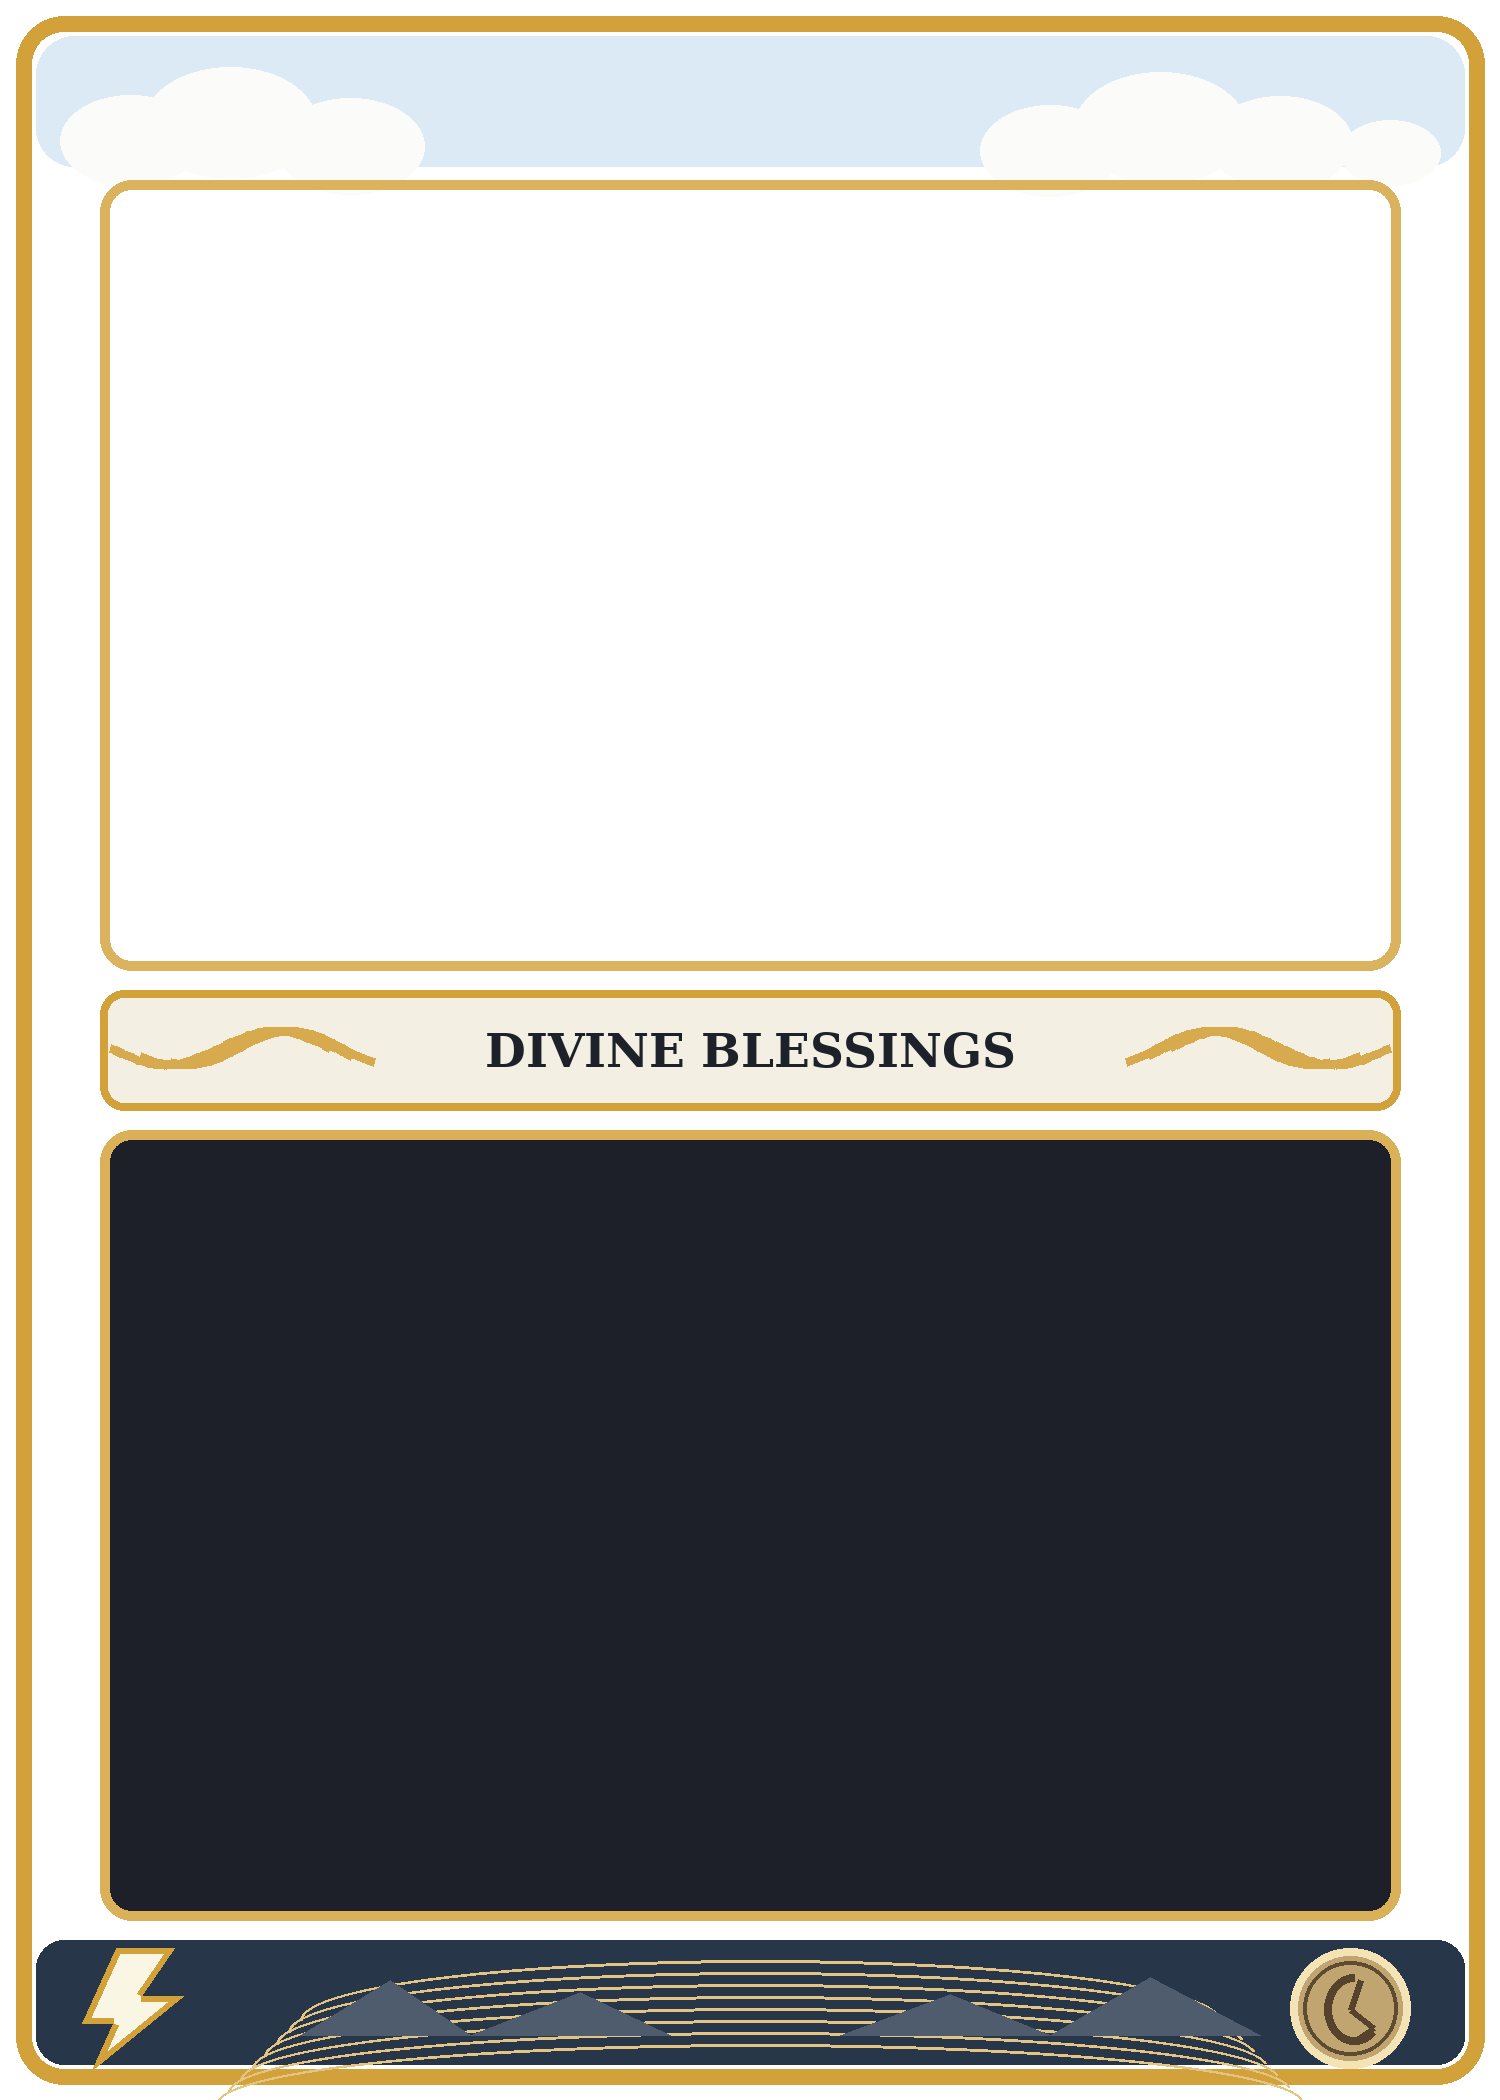
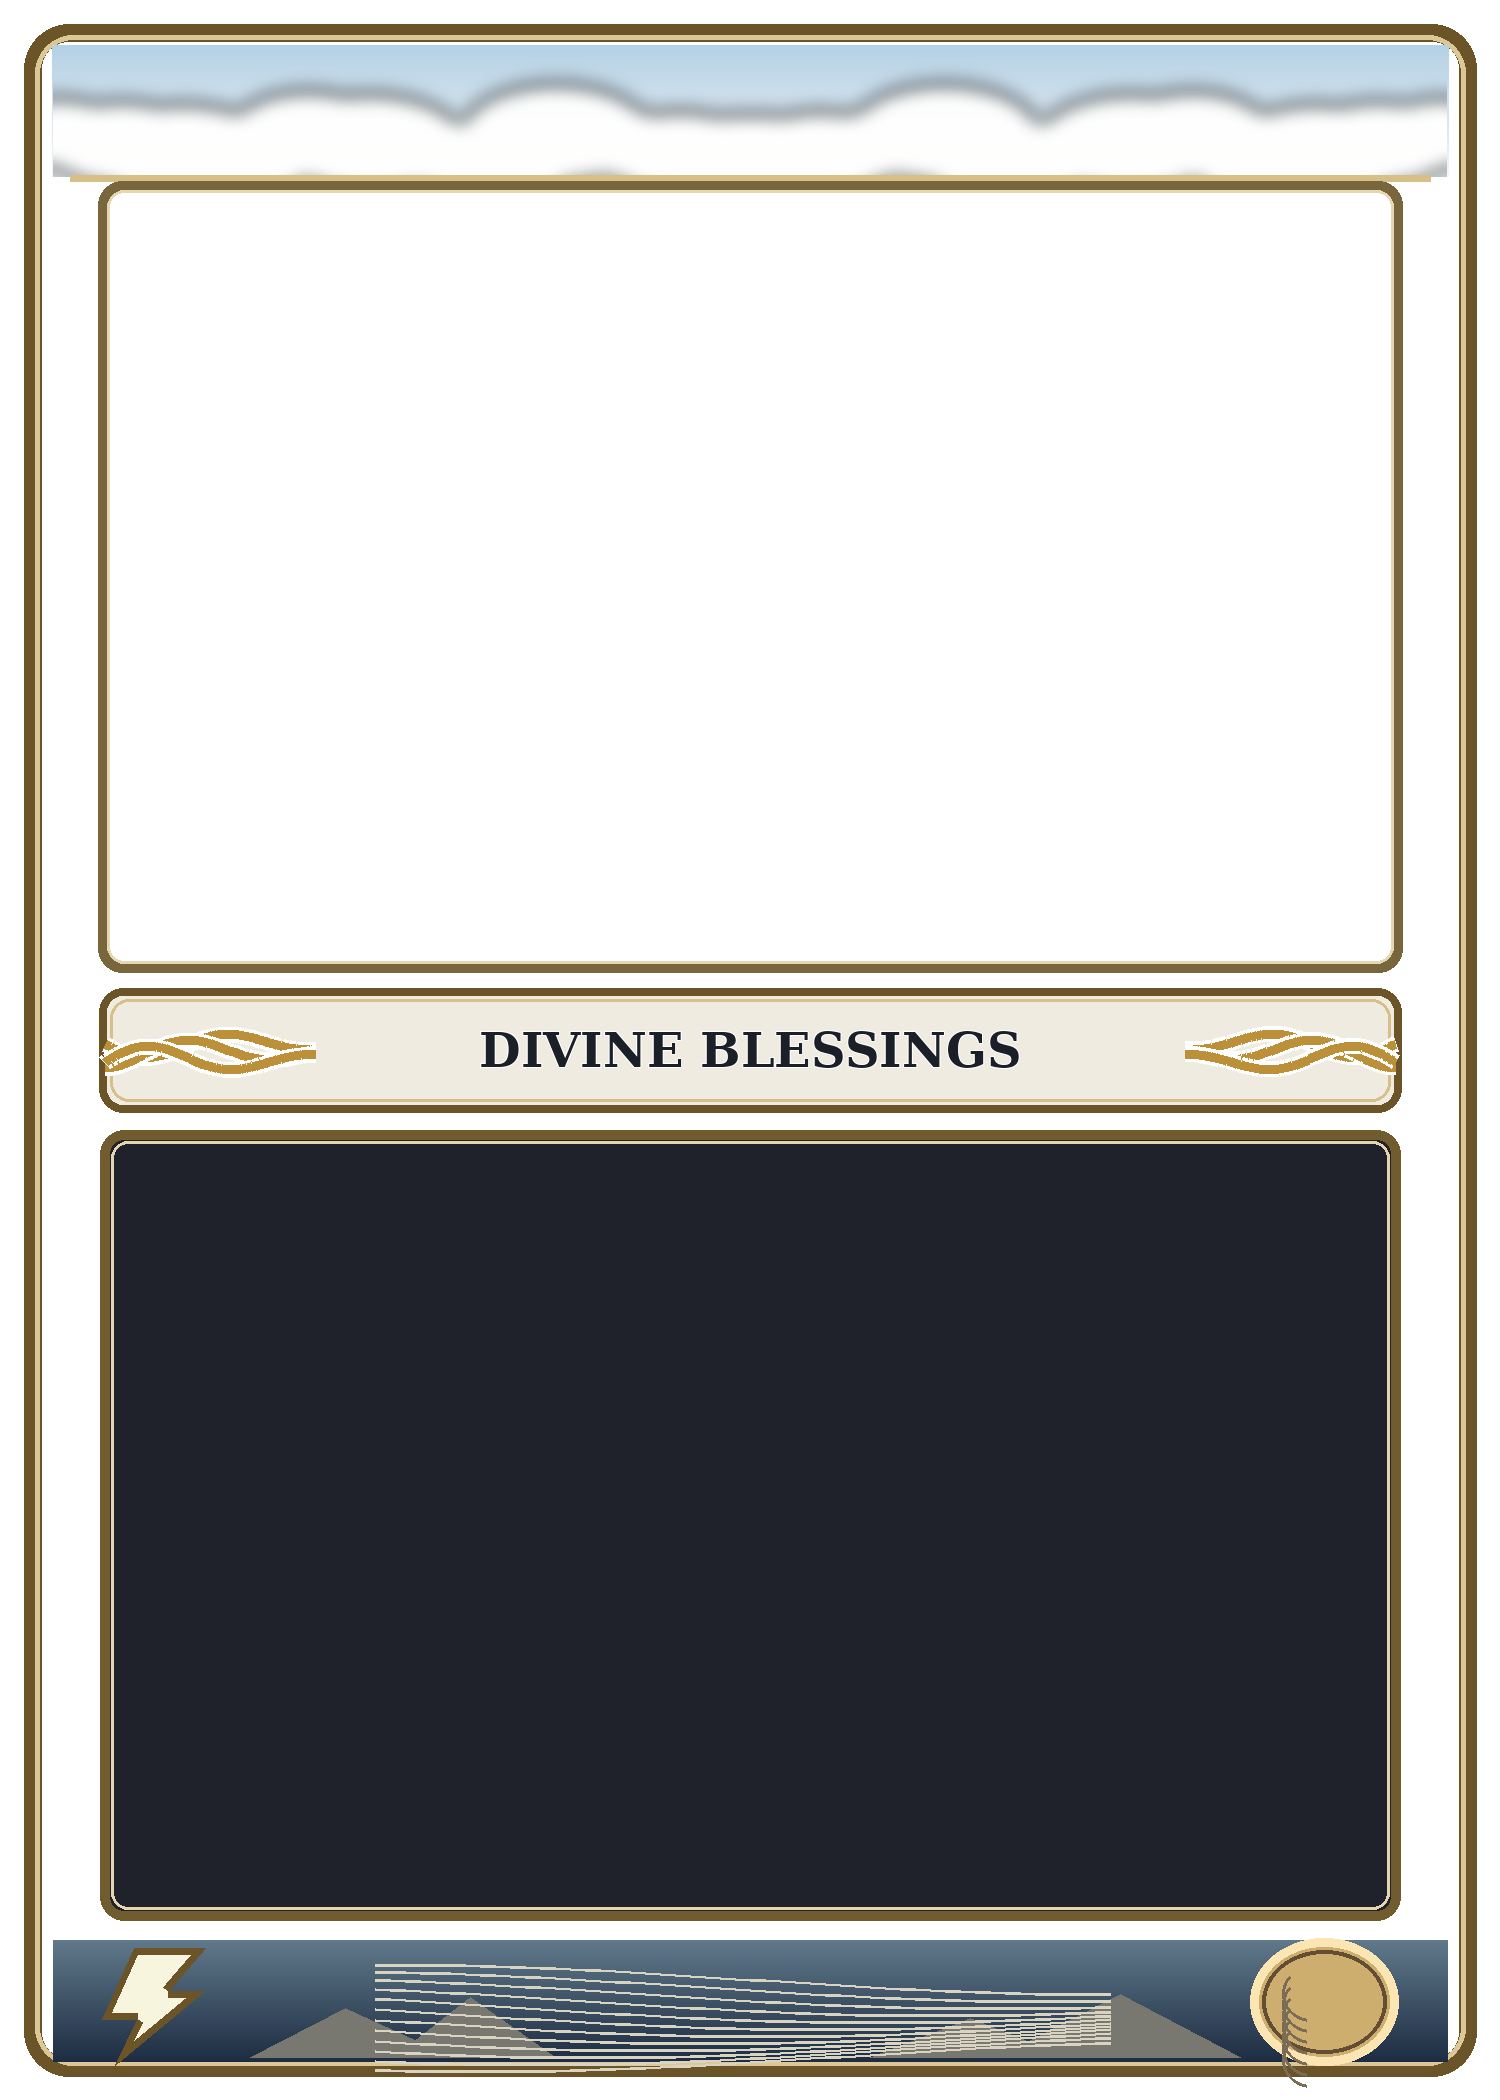
Add files via upload

Changed region(s): [[0.0, 0.0, 1.0, 1.0]]

diff --git a/app.js b/app.js
@@ -36,16 +36,16 @@ function wrapText(value,maxWidth){
 }
 function render(){
   ctx.clearRect(0,0,W,H);
-  ctx.fillStyle='#1d2938';ctx.fillRect(0,0,W,H);
+  ctx.fillStyle='#111827';ctx.fillRect(0,0,W,H);
   // Image is clipped to the exact common art opening, then the transparent frame overlays it.
-  ctx.save();roundedPath(106,186,1288,778,25);ctx.clip();
+  ctx.save();roundedPath(109,192,1282,768,15);ctx.clip();
   if(art){
     const zoom=Number($('zoom').value)||1;
-    const scale=Math.max(1288/art.width,778/art.height)*zoom;
+    const scale=Math.max(1282/art.width,768/art.height)*zoom;
     const w=art.width*scale,h=art.height*scale;
-    ctx.drawImage(art,750-w/2+Number($('x').value),575-h/2+Number($('y').value),w,h);
+    ctx.drawImage(art,750-w/2+Number($('x').value),576-h/2+Number($('y').value),w,h);
   }else{
-    ctx.fillStyle='#b8c5ce';ctx.fillRect(100,180,1300,790);
+    ctx.fillStyle='#b9c6d1';ctx.fillRect(100,180,1300,790);
   }
   ctx.restore();
   if(frame)ctx.drawImage(frame,0,0,W,H);
@@ -53,7 +53,7 @@ function render(){
   ctx.save();ctx.textAlign='left';ctx.textBaseline='middle';
   let name=String($('name').value||'');let size=65;
   while(size>30){ctx.font=`bold ${size}px Georgia,serif`;if(ctx.measureText(name).width<910)break;size-=2;}
-  ctx.fillStyle='#1b2737';ctx.fillText(name,150,103,920);
+  ctx.fillStyle='#1b2737';ctx.fillText(name,155,113,920);
   ctx.restore();
   const dark=$('variant').value==='black';
   const rules=$('rules').value||'';
@@ -64,8 +64,8 @@ function render(){
   let y=1210;
   for(const line of lines){if(y+sz>1850)break;ctx.fillText(line,192,y);y+=sz*1.32;}
   ctx.restore();
-  textFit($('vp').value,125,2012,90,73,36,'#ffffff');
-  textFit($('cost').value,1350,2012,88,69,35,'#28221b');
+  textFit($('vp').value,158,2001,63,54,25,'#172031');
+  textFit($('cost').value,1324,2001,88,60,27,'#28221b');
 }
 function setArtData(data){
   artData=data;

diff --git a/README.md b/README.md
@@ -1,11 +1,9 @@
-# Pantheon Card Studio — unified frame draft
-Upload all contents of this ZIP to the root of your GitHub Pages repository, preserving `frames/`.
+# Pantheon Card Studio — corrected frame and canvas alignment
 
-- `index.html`, `style.css`, `app.js`, `.nojekyll`
-- `frames/`: 16 new 1500 × 2100 PNGs, 8 colors × ivory/black rules panels
-- All frames have identical geometry and a transparent artwork window. Upload artwork in the editor.
-- The title sits on white clouds at the top left; type is printed on the wave banner.
-- Lightning at bottom left is VP, coin at bottom right is cost.
-- Frame artwork is a new programmatic concept draft, **not** the original detailed illustration or print-ready art.
-- Art and rules panels both measure 1300 × 790 px; header and footer occupy 130 px of content each, with margin.
-- Existing saved project JSON can be loaded, but check text and artwork positioning after updating.
+Upload `index.html`, `style.css`, `app.js`, `.nojekyll`, and the entire `frames/` folder to the root of your GitHub Pages repository. Replace old files. Do not upload `build_frames.py` (included only for reproducibility).
+
+16 PNG frames: eight original types × ivory/black rules panels. Each 1500×2100 pixels, artwork window is transparent. Upload artwork through the editor; no artwork is baked into the frames. Title on white cloud header; waves mark the card type; River Styx footer with VP lightning on the left and cost coin on the right.
+
+The artwork and rules panels are both 1300×790 pixels. Top and bottom visual bands are approximately 130 pixels. Corrected canvas rendering avoids the duplicate art placeholder and places numbers on their symbols.
+
+This is a functional refined vector-style draft, not a reproduction of the earlier highly illustrated concept art.
